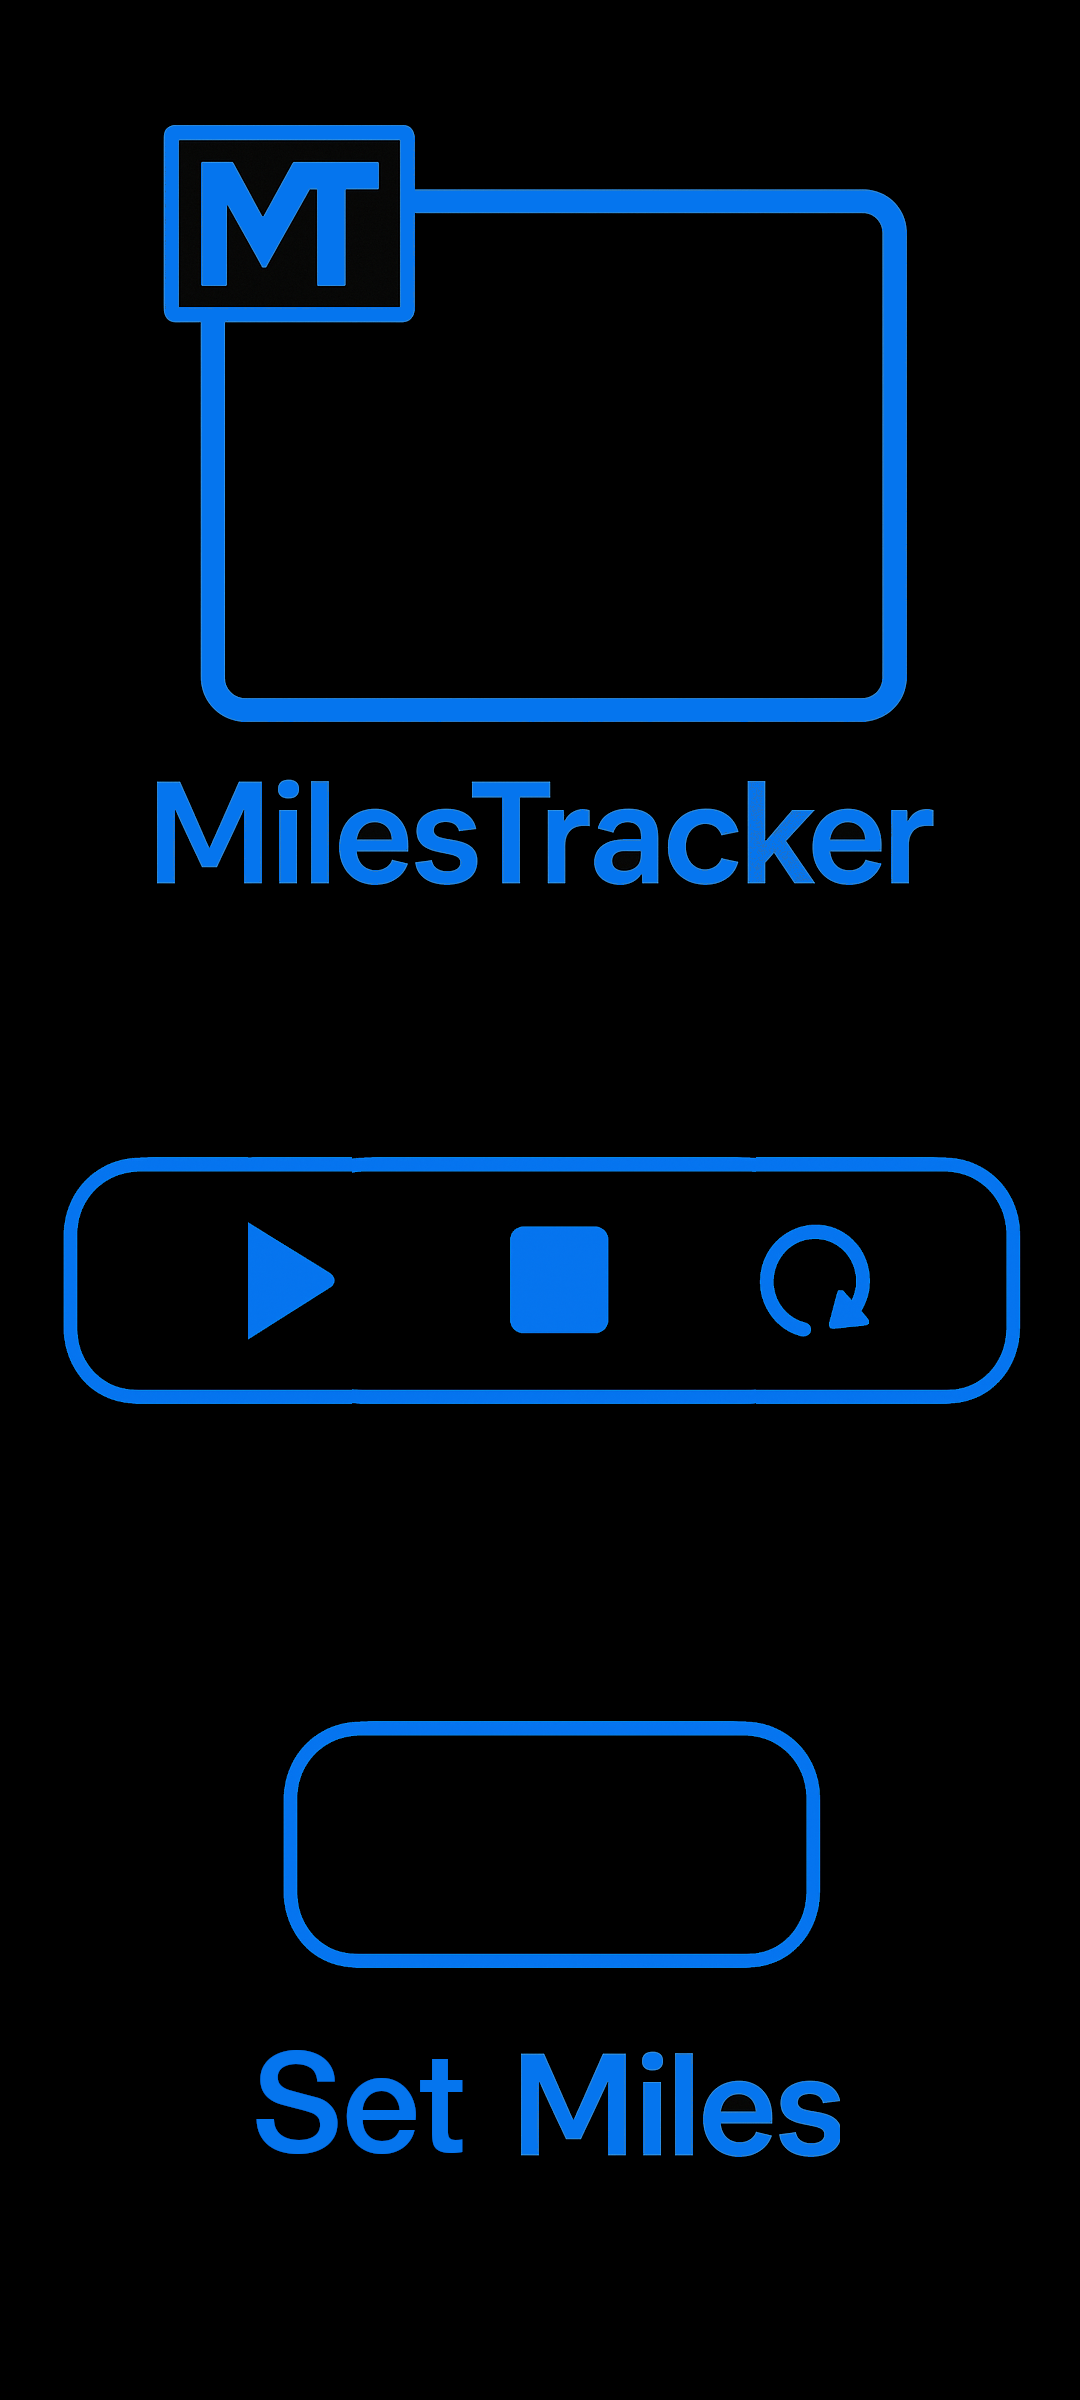
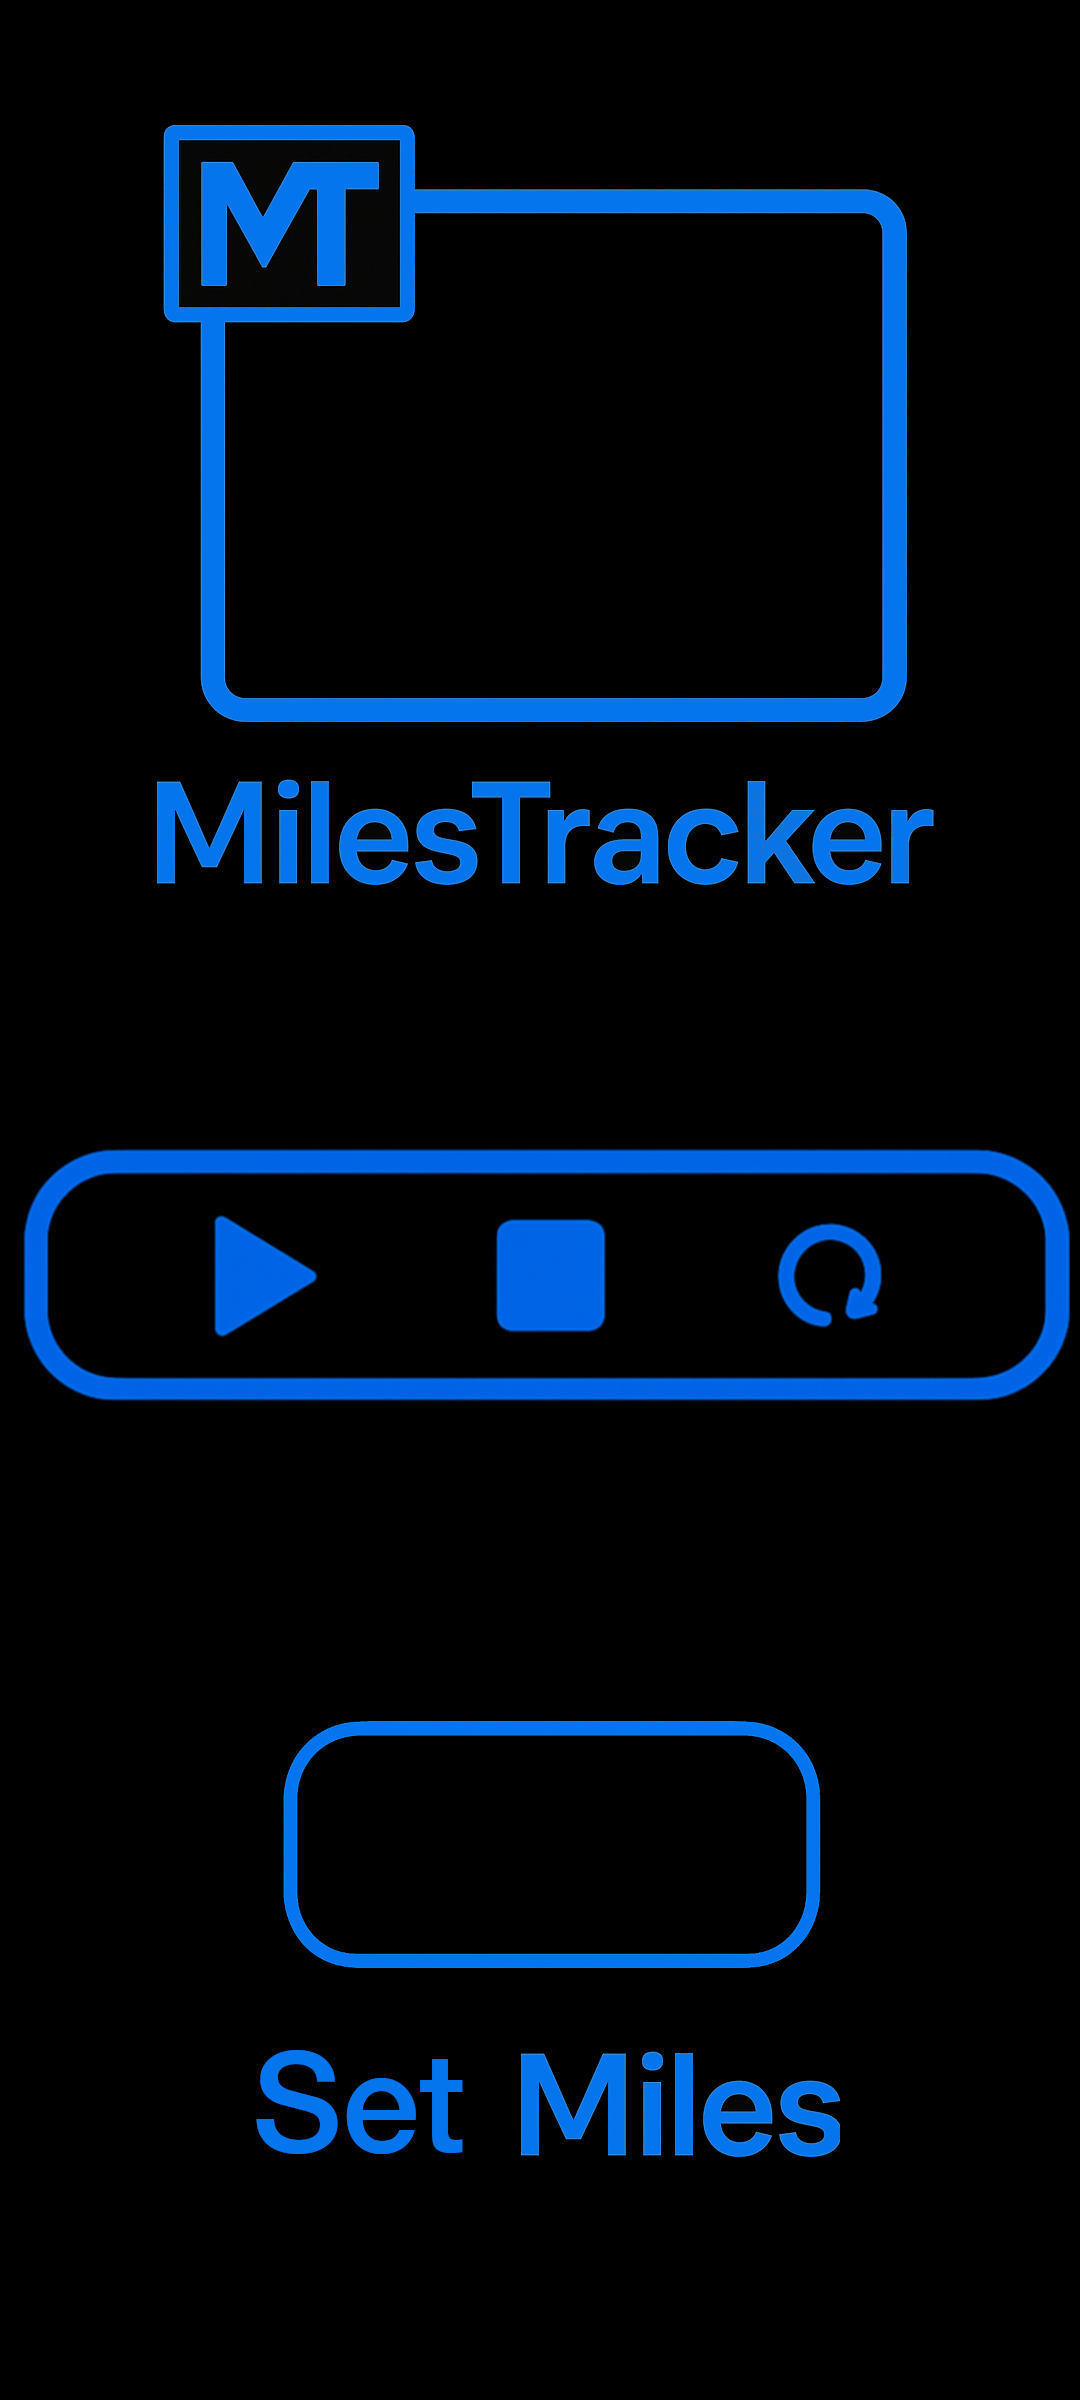
the textinput must only numbers contains and changing the milesbeforrevuel variable

Changed region(s): [[0.0, 0.4688, 1.0, 0.5938]]

diff --git a/lib/tracking_controls.dart b/lib/tracking_controls.dart
@@ -14,73 +14,39 @@ class TrackingControls extends StatelessWidget {
 
   @override
   Widget build(BuildContext context) {
-    final screenWidth = MediaQuery.of(context).size.width;
     return Padding(
-      padding: const EdgeInsets.fromLTRB(0, 135, 0, 0),
-      child: Container(
-        color: Colors.transparent,
+      padding: const EdgeInsets.fromLTRB(0, 133, 0, 0),
+      child: SizedBox(
         width: 900,
         height: 92,
         child: Row(
           mainAxisAlignment: MainAxisAlignment.center,
           children: [
-            Flexible(
-              child: Padding(
-                padding: const EdgeInsets.fromLTRB(25, 0, 0, 0),
-                child: IconButton(
-                  icon: Opacity(
-                    opacity: 0.0,
-                    child: SizedBox(
-                    width: 100,
-                    height: 100,
-                  ),),
-                  onPressed: onStart,
-                  style: IconButton.styleFrom(
-                    backgroundColor: Colors.green.withOpacity(0.5),
-                    padding: EdgeInsets.all(0),
-                  ),
-                ),
-              ),
-            ),
+            // Start Button
+            _buildButton(onStart, 15, 7),
             const SizedBox(width: 5),
-            Flexible(
-              child: Padding(
-                padding: const EdgeInsets.fromLTRB(0, 0, 2, 0),
-                child: IconButton(
-                  icon: Opacity(
-                    opacity: 0.0,
-                    child: SizedBox(
-                      width: 100,
-                      height: 100,
-                    ),),
-                  onPressed: onStart,
-                  style: IconButton.styleFrom(
-                    backgroundColor: Colors.red.withOpacity(0.5),
-                    padding: EdgeInsets.all(0),
-                  ),
-                ),
-              ),
-            ),
+            // Stop Button
+            _buildButton(onStop, 0, 7),
             const SizedBox(width: 5),
-            Flexible(
-              child: Padding(
-                padding: const EdgeInsets.fromLTRB(0, 0, 10, 0),
-                child: IconButton(
-                  icon: Opacity(
-                    opacity: 0.0,
-                    child: SizedBox(
-                      width: 100,
-                      height: 100,
-                    ),),
-                  onPressed: onStart,
-                  style: IconButton.styleFrom(
-                    backgroundColor: Colors.blue.withOpacity(0.5),
-                    padding: EdgeInsets.all(0),
-                  ),
-                ),
-              ),
-            ),
+            // Reset Button
+            _buildButton(onReset, 0, 10),
           ],
+        ),
+      ),
+    );
+  }
+
+  Widget _buildButton(VoidCallback onTap, double paddingLeft, double paddingRight) {
+    return Padding(
+      padding: EdgeInsets.fromLTRB(paddingLeft, 0, paddingRight, 0),
+      child: Material(
+        color: Colors.transparent,
+        child: InkWell(
+          onTap: onTap,
+          child: SizedBox(
+            width: 100,
+            height: 100,
+          ),
         ),
       ),
     );

diff --git a/lib/MilesInput.dart b/lib/MilesInput.dart
@@ -1,0 +1,48 @@
+import 'package:flutter/material.dart';
+
+class MilesInput extends StatelessWidget {
+
+  @override
+  Widget build(BuildContext context) {
+    return Center(
+      child:
+      FittedBox(
+        fit: BoxFit.contain,
+        child: Column(
+          mainAxisSize: MainAxisSize.min,
+          children: [
+            SizedBox(
+                width: 150,
+                child: TextField(
+                  maxLength: 3,
+                  style: TextStyle(
+                    fontSize: 75,
+                    fontWeight: FontWeight.bold,
+                    color: Colors.green,
+                  ),
+                  decoration: const InputDecoration(
+                    border: InputBorder.none,
+                    counterText: "",
+                    contentPadding: EdgeInsets.only(left: 20),
+                  ),
+                  textAlign: TextAlign.right,
+                  showCursor: false,
+                  keyboardType: TextInputType.number,
+                ),
+              ),
+              const SizedBox(height: 2),
+              ElevatedButton(
+                onPressed: null,
+                child: const Text("Set Miles",style: TextStyle(
+                  color: Colors.transparent,
+                  fontSize: 55,
+                  fontWeight: FontWeight.bold,
+                ),
+                ),
+              ),
+            ],
+          ),
+      ),
+    );
+  }
+}

diff --git a/lib/buttons.dart b/lib/buttons.dart
@@ -1,6 +1,7 @@
 import 'package:flutter/material.dart';
 import 'tracking_miles.dart';
 import 'tracking_controller.dart';
+import 'MilesInput.dart';
 
 class ButtonsPage extends StatelessWidget {
   final TrackingController controller;
@@ -14,15 +15,23 @@ class ButtonsPage extends StatelessWidget {
 
   @override
   Widget build(BuildContext context) {
-    return SingleChildScrollView(
-      physics: const NeverScrollableScrollPhysics(),
+    return Center(
       child: Container(
         width: 900,
-        child: TrackingMiles(
-          controller: controller,
-          isPip: isPip,
+        child: Column(
+          mainAxisSize: MainAxisSize.min,
+          children: [
+            TrackingMiles(
+              controller: controller,
+              isPip: isPip,
+            ),
+            const SizedBox(height: 118),
+            MilesInput(),
+          ],
         ),
       ),
     );
   }
+
+
 }

diff --git a/lib/main.dart b/lib/main.dart
@@ -53,7 +53,7 @@ class _MileToReserveAppState extends State<MileToReserveApp>
                 ),
               ),
               child: Padding(
-                padding: const EdgeInsets.fromLTRB(0, 55, 0, 0),
+                padding: const EdgeInsets.fromLTRB(0, 20, 0, 0),
                 child: ButtonsPage(
                   controller: controller,
                   isPip: MediaQuery.of(context).size.width < 400,

diff --git a/lib/tracking_miles.dart b/lib/tracking_miles.dart
@@ -40,7 +40,7 @@ class _TrackingMilesState extends State<TrackingMiles> {
         ),
       ),
     Transform.translate(
-    offset: const Offset(0, -10), // y negativ = nach oben verschieben
+    offset: const Offset(0, -10),
     child: ValueListenableBuilder<int>(
           valueListenable: widget.controller.milesNotifier,
           builder: (_, value, __) => Text(
